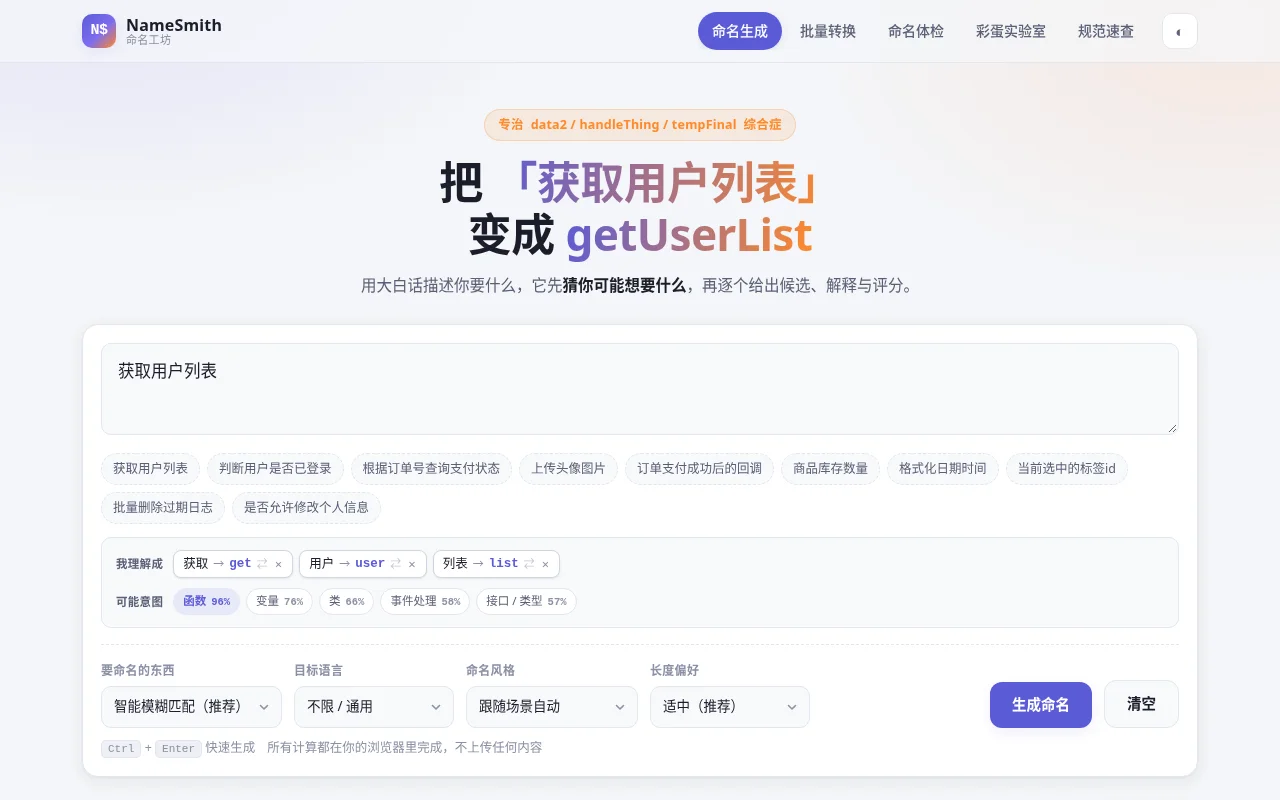
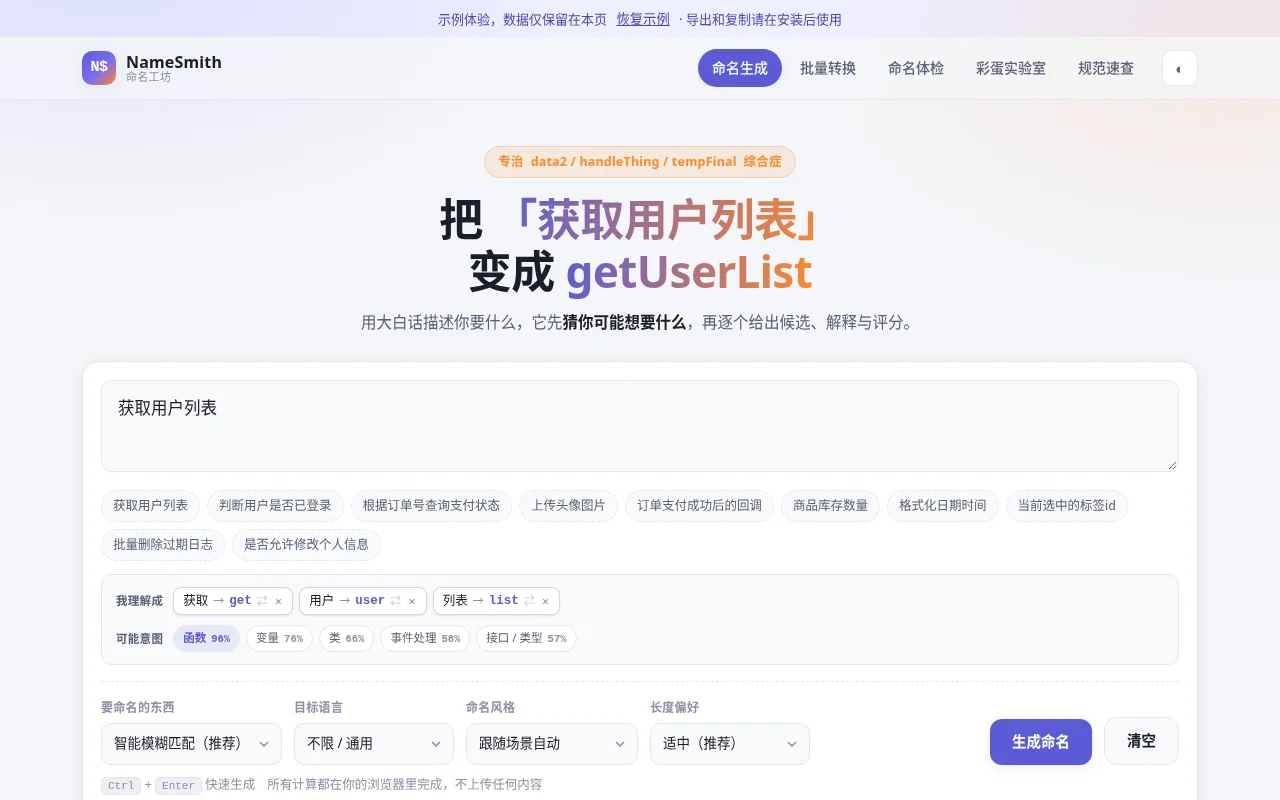
Add NameSmith naming workshop template

diff --git a/wb1024-c092-c6a442dd/showcase/preview.html b/wb1024-c092-c6a442dd/showcase/preview.html
@@ -604,6 +604,8 @@ select.sel:focus { border-color: var(--brand); box-shadow: 0 0 0 3px var(--brand
 </style>
 </head>
 <body>
+<div style="background:#eeefff;text-align:center;padding:8px;color:#4c4cb0;font:13px system-ui">示例体验，数据仅保留在本页 <button id="previewReset" style="border:0;background:transparent;color:inherit;text-decoration:underline;cursor:pointer">恢复示例</button> · 导出和复制请在安装后使用</div>
+<script>try {const mem={};Object.defineProperty(window,'localStorage',{value:{getItem:k=>mem[k]??null,setItem:(k,v)=>{mem[k]=String(v)},removeItem:k=>delete mem[k],clear:()=>Object.keys(mem).forEach(k=>delete mem[k])}})} catch(e){}</script>
 
 <header class="site-header">
   <div class="header-inner">
@@ -3805,5 +3807,8 @@ select.sel:focus { border-color: var(--brand); box-shadow: 0 0 0 3px var(--brand
   else init();
 })();
 </script>
-</body>
+<script>
+document.getElementById('previewReset').addEventListener('click',()=>{try{localStorage.clear()}catch(e){};document.querySelector('[data-view="v-gen"]').click();document.getElementById('genInput').value='获取用户列表';document.getElementById('btnGen').click()});
+['btnExportMd','btnShareCard','btnCopyAll','btnConvCopy','btnAuditCopy'].forEach(id=>{const b=document.getElementById(id);if(b){b.disabled=true;b.title='安装后可用'}});
+</script></body>
 </html>
